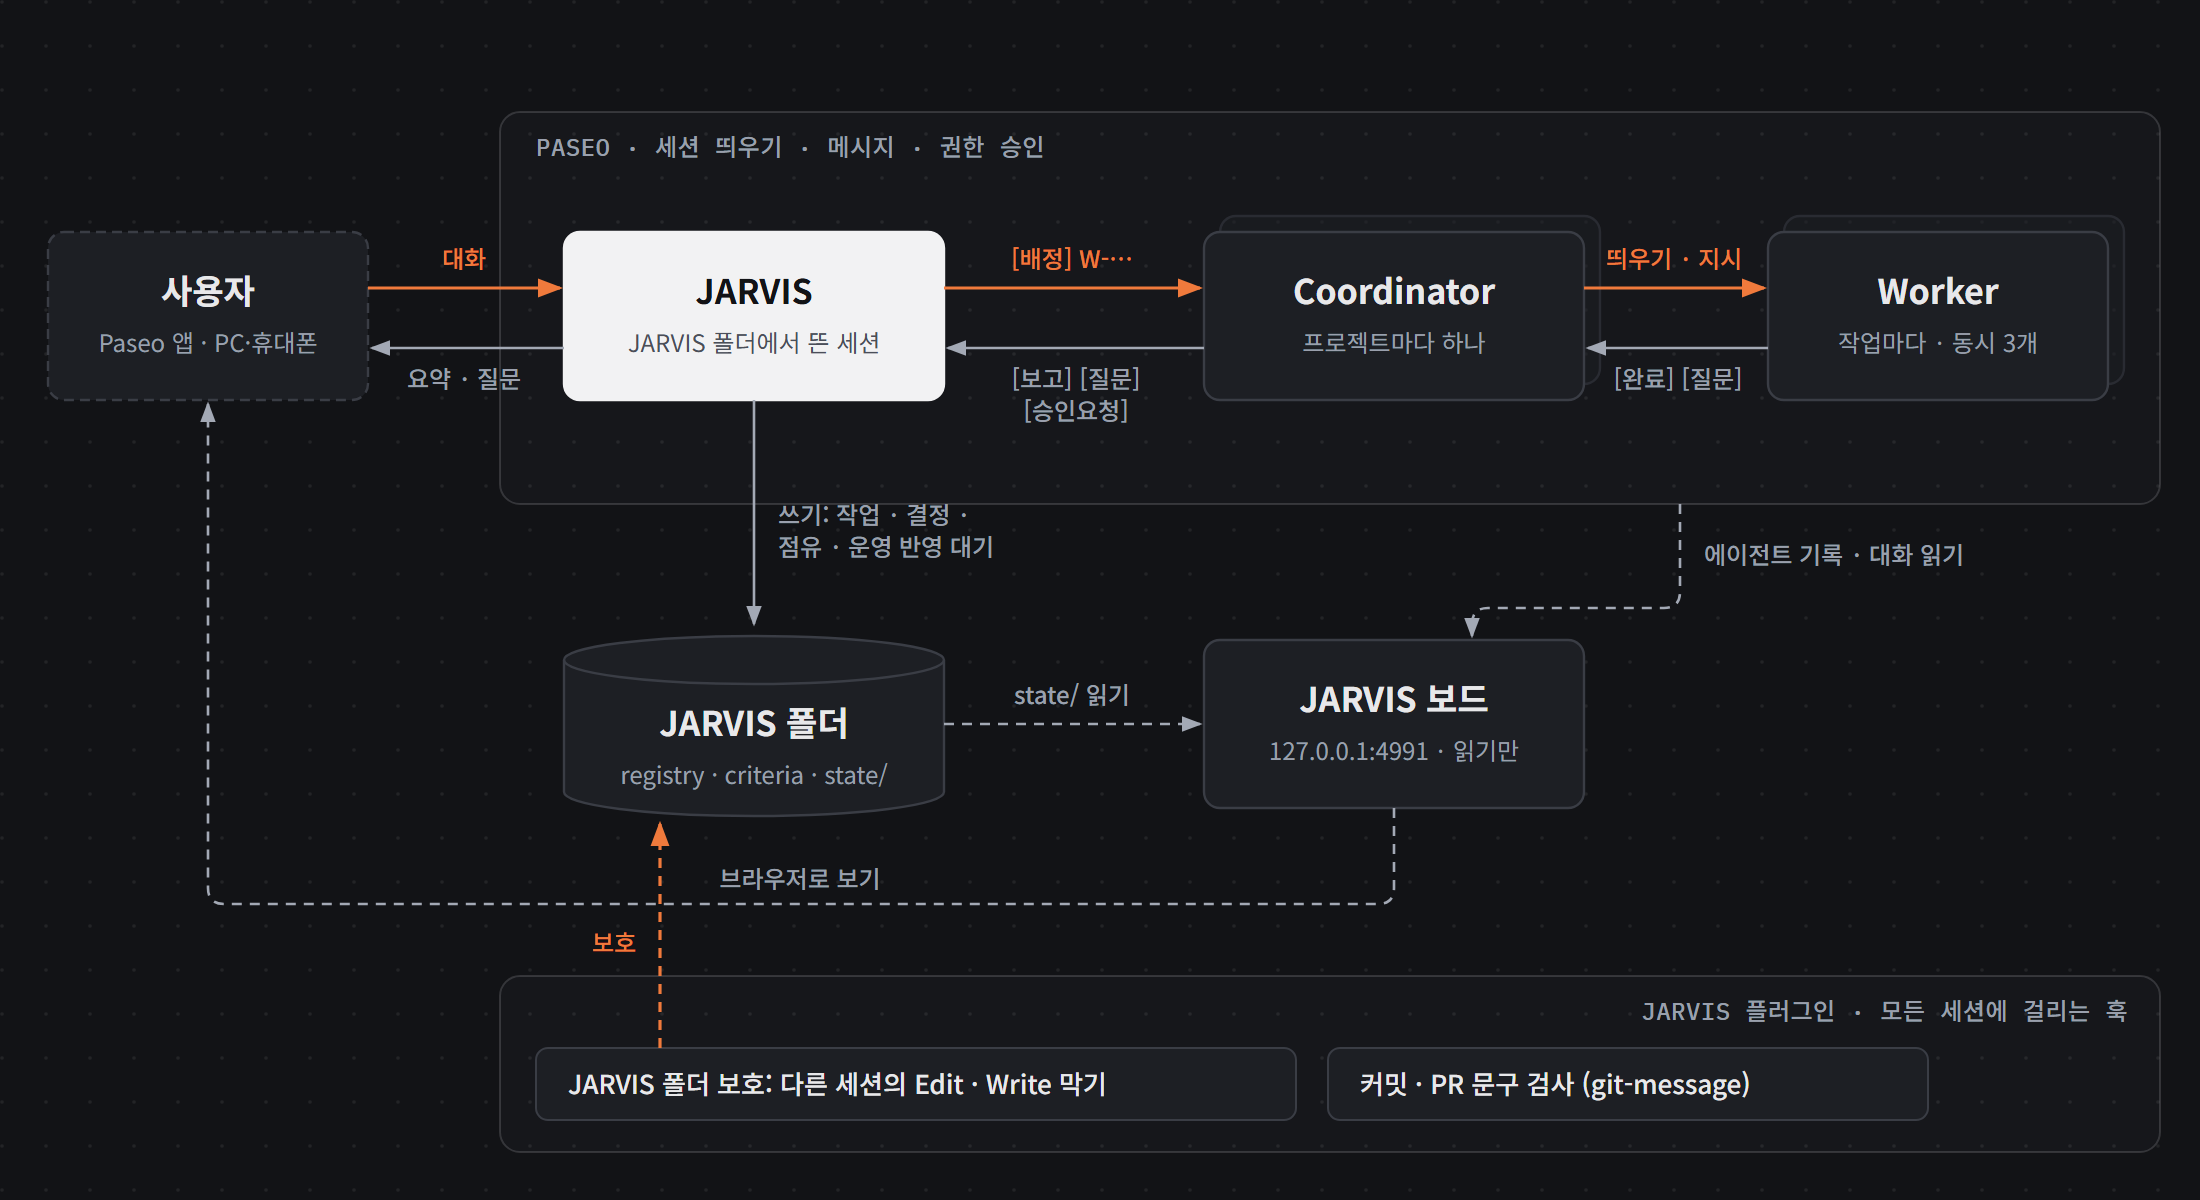
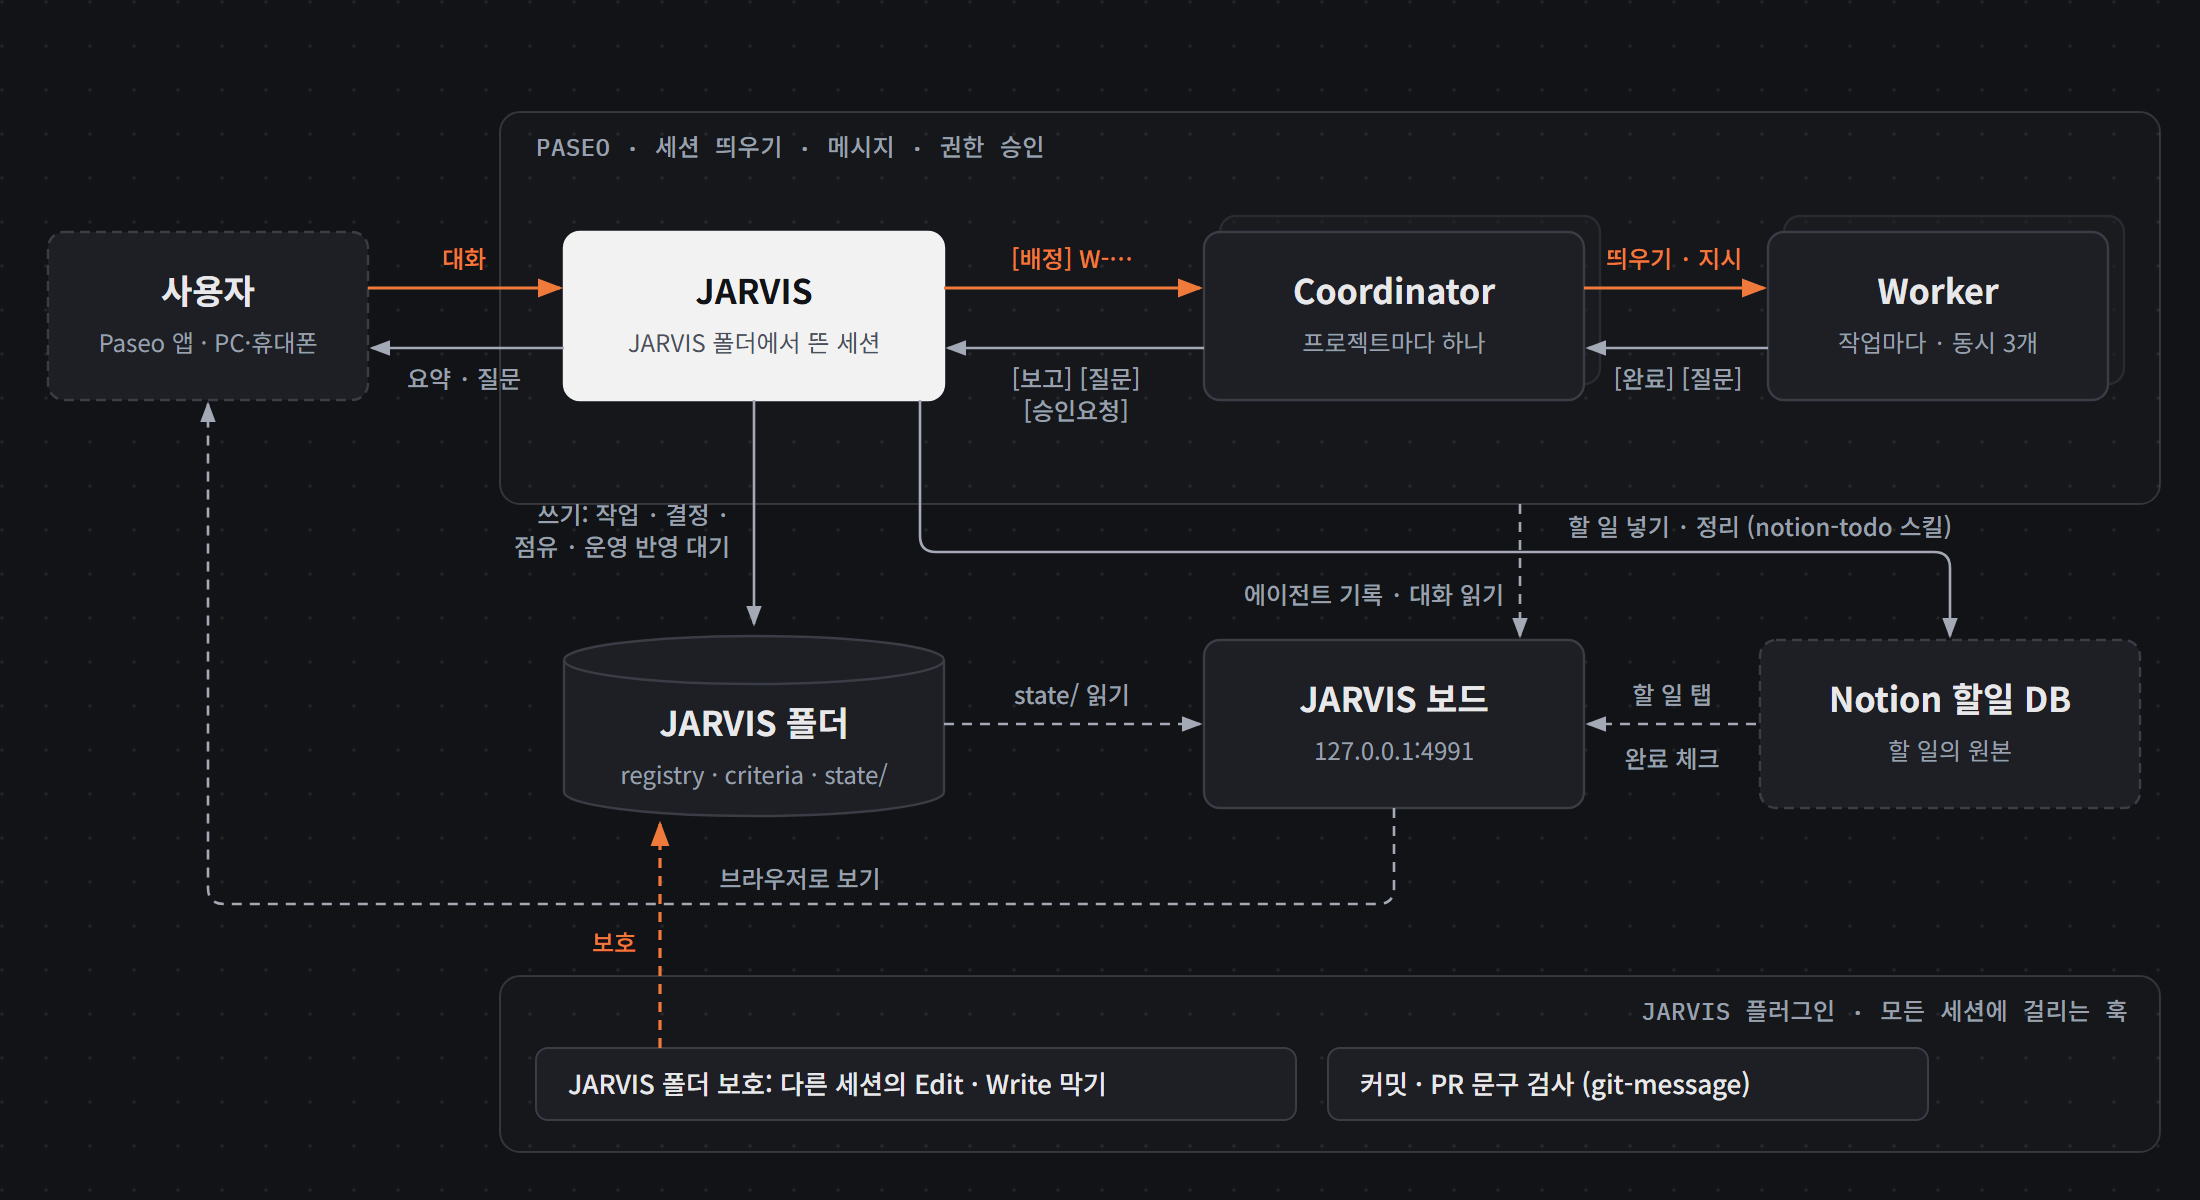
JARVIS 구성도에 Notion 할일 DB 추가
- JARVIS 의 notion-todo 할 일 관리와 보드 할 일 탭 연결 표시
- README 구성 요소 설명에 Notion 반영

diff --git a/docs/diagrams/architecture.html b/docs/diagrams/architecture.html
@@ -11,7 +11,7 @@
 <figure>
 <svg viewBox="0 0 1100 600" xmlns="http://www.w3.org/2000/svg" role="img" aria-labelledby="t d">
 <title id="t">JARVIS 구성</title>
-<desc id="d">사용자는 Paseo 앱에서 JARVIS 와만 대화한다. JARVIS 는 프로젝트별 Coordinator 에 배정하고, Coordinator 는 작업마다 Worker 를 띄운다. 보고는 거꾸로 올라온다. JARVIS 는 JARVIS 폴더의 state 파일에 기록하고, 대시보드는 그 파일과 Paseo 기록을 읽어 보여 준다. 플러그인 훅 두 개가 모든 세션에 걸린다.</desc>
+<desc id="d">JARVIS 는 notion-todo 스킬로 Notion 할일 DB 에 할 일을 넣고 정리하고, 대시보드 할 일 탭은 그 DB 를 읽고 완료 체크를 쓴다. 사용자는 Paseo 앱에서 JARVIS 와만 대화한다. JARVIS 는 프로젝트별 Coordinator 에 배정하고, Coordinator 는 작업마다 Worker 를 띄운다. 보고는 거꾸로 올라온다. JARVIS 는 JARVIS 폴더의 state 파일에 기록하고, 대시보드는 그 파일과 Paseo 기록을 읽어 보여 준다. 플러그인 훅 두 개가 모든 세션에 걸린다.</desc>
 <defs>
 <pattern id="dots" width="22" height="22" patternUnits="userSpaceOnUse"><circle cx="1" cy="1" r="0.9" class="dot"/></pattern>
 <marker id="a" markerWidth="8" markerHeight="6" refX="7" refY="3" orient="auto"><polygon points="0 0, 8 3, 0 6" class="ah"/></marker>
@@ -69,17 +69,27 @@
 <text x="377" y="368" class="name" text-anchor="middle">JARVIS 폴더</text>
 <text x="377" y="392" class="sub" text-anchor="middle">registry · criteria · state/</text>
 <path d="M 377,200 V 312" class="ln" marker-end="url(#a)"/>
-<text x="389" y="262" class="lbl">쓰기: 작업 · 결정 ·</text>
-<text x="389" y="278" class="lbl">점유 · 운영 반영 대기</text>
+<text x="365" y="262" class="lbl" text-anchor="end">쓰기: 작업 · 결정 ·</text>
+<text x="365" y="278" class="lbl" text-anchor="end">점유 · 운영 반영 대기</text>
 
 <!-- 대시보드 -->
 <rect x="602" y="320" width="190" height="84" rx="8" class="box"/>
 <text x="697" y="356" class="name" text-anchor="middle">JARVIS 보드</text>
-<text x="697" y="380" class="sub" text-anchor="middle">127.0.0.1:4991 · 읽기만</text>
+<text x="697" y="380" class="sub" text-anchor="middle">127.0.0.1:4991</text>
 <path d="M 472,362 H 600" class="ln dash" marker-end="url(#a)"/>
 <text x="536" y="352" class="lbl" text-anchor="middle">state/ 읽기</text>
-<path d="M 840,252 V 296 Q 840,304 832,304 H 744 Q 736,304 736,312 V 318" class="ln dash" marker-end="url(#a)"/>
-<text x="852" y="282" class="lbl">에이전트 기록 · 대화 읽기</text>
+<path d="M 760,252 V 318" class="ln dash" marker-end="url(#a)"/>
+<text x="752" y="302" class="lbl" text-anchor="end">에이전트 기록 · 대화 읽기</text>
+
+<!-- Notion -->
+<rect x="880" y="320" width="190" height="84" rx="8" class="box ext"/>
+<text x="975" y="356" class="name" text-anchor="middle">Notion 할일 DB</text>
+<text x="975" y="380" class="sub" text-anchor="middle">할 일의 원본</text>
+<path d="M 460,200 V 268 Q 460,276 468,276 H 967 Q 975,276 975,284 V 318" class="ln" marker-end="url(#a)"/>
+<text x="880" y="268" class="lbl" text-anchor="middle">할 일 넣기 · 정리 (notion-todo 스킬)</text>
+<path d="M 878,362 H 794" class="ln dash" marker-end="url(#a)"/>
+<text x="836" y="352" class="lbl" text-anchor="middle">할 일 탭</text>
+<text x="836" y="384" class="lbl" text-anchor="middle">완료 체크</text>
 <path d="M 697,404 V 444 Q 697,452 689,452 H 112 Q 104,452 104,444 V 202" class="ln dash" marker-end="url(#a)"/>
 <text x="400" y="444" class="lbl" text-anchor="middle">브라우저로 보기</text>
 
